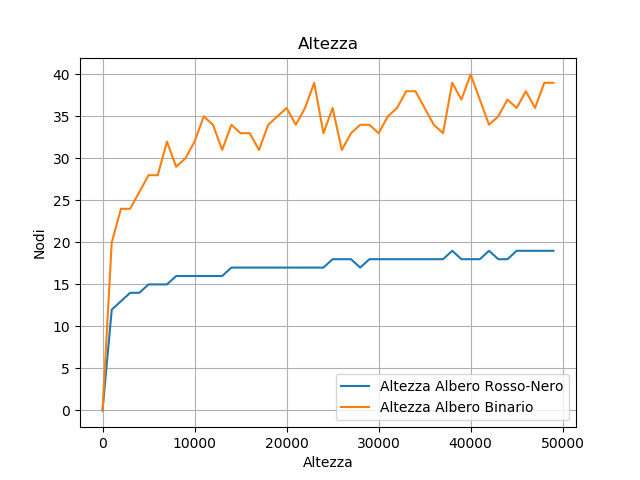
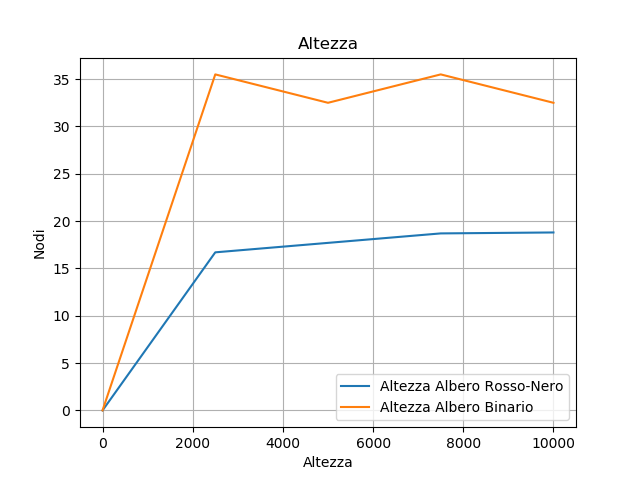
End.

diff --git a/Main.py b/Main.py
@@ -1,3 +1,4 @@
+import math
 import ABR as abr
 import ABR_RN as abrRN
 import RandomArray as ra
@@ -20,31 +21,37 @@ tempTimeAbr = []
 tempTimeAbrWorst = []
 tempTimeabr_RN = []
 tempTimeabr_RNw = []
-effective = []
+
+tempHeightABR = []
+tempHeightABR_RN = []
 
 heightABR = []
 heightABRWorst = []
 heightABR_RN = []
 numberOfNodes = []
 
+tempTimeToSearchABR = []
+tempTimeToSearchABR_RN = []
+
 timeToSearchABR = []
 timeToSearchABR_RN = []
-numOfTests = 5000
+
+numOfTests = 10000
 numOfRep = 10
-for j in range(0, numOfTests, 100):
-    print("Parliamo di ", j, "/", numOfTests, " elementi, ovvero ", j * 100 / numOfTests, "%")
+for j in range(0, numOfTests + 1, 2500):
+    print("Parliamo di ", j, "/", numOfTests, " elementi, cioè ", j * 100 / numOfTests, "%")
 
     Tabr = abr.ABR()  # Albero BR
     Tabrw = abr.ABR()
     Tabr_RN = abrRN.ABR_RN()  # Albero RN
     Tabr_RNw = abrRN.ABR_RN()
 
-    arrayOfNode = ra.randomArray(j)
-    badArrayOfNode = []
-    for i in range(0, j):
-        badArrayOfNode.append(i)
-
     for w in range(0, numOfRep):
+        arrayOfNode = ra.randomArray(j)
+        badArrayOfNode = []
+        for i in range(0, j):
+            badArrayOfNode.append(i)
+
         for i in range(0, j):
             startTime = time.time()
             Tabr.insert(arrayOfNode[i])
@@ -65,43 +72,67 @@ for j in range(0, numOfTests, 100):
             Tabr_RNw.insert(badArrayOfNode[i])
             tempTimeabr_RNw.append(time.time() - startTime)
 
+            # Ricerca ABR
+            keyToSearch = random.randint(0, math.ceil(j + j / 4))
+            startTime = time.time()
+            Tabr.searchI(keyToSearch)
+            tempTimeToSearchABR.append(time.time() - startTime)
+
+            # Ricerca ABR_RN
+            startTime = time.time()
+            Tabr_RN.searchI(keyToSearch)
+            tempTimeToSearchABR_RN.append(time.time() - startTime)
+
+            # Altezza
+            tempHeightABR.append(Tabr.heightRecursive(Tabr.root))
+            tempHeightABR_RN.append(Tabr_RN.heightRecursive(Tabr_RN.root))
+
     if len(tempTimeAbr) == 0:
         ABRtime.append(0)
         ABRWorst.append(0)
         ABR_RNtime.append(0)
         ABR_RNwtime.append(0)
-        numberOfNodes.append(0)
+        timeToSearchABR.append(0)
+        timeToSearchABR_RN.append(0)
+        heightABR.append(0)
+        heightABR_RN.append(0)
     else:
         tempABR = 0
         tempABRW = 0
         tempABR_RN = 0
         tempABR_RNw = 0
+        tempSearchAbr = 0
+        tempSearchAbr_rn = 0
+        tempHABR = 0
+        tempHABR_RN = 0
         for i in range(0, len(tempTimeAbr)):
             tempABR += tempTimeAbr[i]
             tempABRW += tempTimeAbrWorst[i]
             tempABR_RN += tempTimeabr_RN[i]
             tempABR_RNw += tempTimeabr_RNw[i]
+            tempSearchAbr += tempTimeToSearchABR[i]
+            tempSearchAbr_rn += tempTimeToSearchABR_RN[i]
+            tempHABR += tempHeightABR[i]
+            tempHABR_RN += tempHeightABR_RN[i]
         ABRtime.append(tempABR / len(tempTimeAbr))
-        ABRWorst.append(tempABRW / len(tempTimeAbr))
-        ABR_RNtime.append(tempABR_RN / len(tempTimeAbr))
-        ABR_RNwtime.append(tempABR_RNw / len(tempTimeAbr))
-        count = 0
-        numberOfNodes.append(len(tempTimeAbr))
+        ABRWorst.append(tempABRW / len(tempTimeAbrWorst))
+        ABR_RNtime.append(tempABR_RN / len(tempTimeabr_RN))
+        ABR_RNwtime.append(tempABR_RNw / len(tempTimeabr_RNw))
+        timeToSearchABR.append(tempSearchAbr / len(tempTimeToSearchABR))
+        timeToSearchABR_RN.append(tempSearchAbr_rn / len(tempTimeToSearchABR_RN))
+        heightABR.append(tempHABR / len(tempHeightABR))
+        heightABR_RN.append(tempHABR_RN / len(tempHeightABR_RN))
+
         tempTimeAbr = []
         tempTimeAbrWorst = []
         tempTimeabr_RN = []
         tempTimeabr_RNw = []
-    heightABR_RN.append(Tabr_RN.heightRecursive(Tabr_RN.root))
-    heightABR.append(Tabr.heightRecursive(Tabr.root))
-    keyToSearch = random.randint(0, j + j/4)
-    startTime = timer()
-    Tabr.searchI(keyToSearch)
-    timeToSearchABR.append(timer() - startTime)
+        tempSearchAbr = []
+        tempSearchAbr_rn = []
+        tempHeightABR = []
+        tempHeightABR_RN = []
 
-    startTime = timer()
-    Tabr_RN.searchI(keyToSearch)
-    timeToSearchABR_RN.append(timer() - startTime)
-    effective.append(j)
+    numberOfNodes.append(j)
 
 print(100, "%!!!!!!!")
 
@@ -152,5 +183,3 @@ plt.draw()
 plt.title("Altezza")
 plt.savefig('Altezza', dpi=100)
 plt.show()
-
-print("Ci abbiamo impiegato ", timer() - tempoTotale)

diff --git a/ABR_RN.py b/ABR_RN.py
@@ -70,7 +70,8 @@ class ABR_RN:
                 x = x.right
         if x == self.NIL:
             return False
-        return True
+        else:
+            return True
 
     def inorder_tree_walk(self, x):  # O(n)
         if x != self.NIL:

diff --git a/ABR.py b/ABR.py
@@ -36,7 +36,8 @@ class ABR:
                 x = x.right
         if x == self.NIL:
             return False
-        return True
+        else:
+            return True
 
     def inorder_tree_walk(self, x):  # O(n)
         if x is not None:
